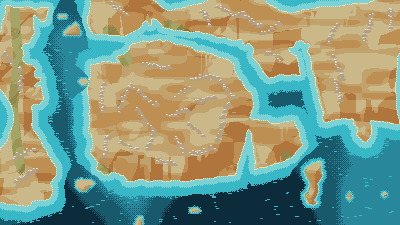
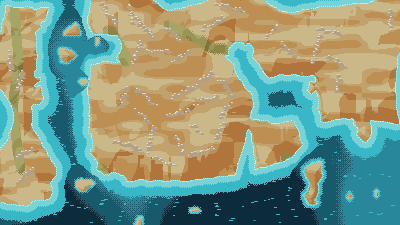
지도 — 육로가 바다를 파고 있었다 (C-12)
autoLandMap은 받은 항로마다 바다를 파는데 호출부가 육로까지 넘기고 있었다. 카이로에서
바그다드로 가는 대상로를 파니 아라비아가 섬이 됐고, 안데스 노새길이 남미 서안을 협만
그물로 썰었다. 그림 문제로 적혀 있었지만 코드 한 줄이었다.

육로를 빼자 내륙 도시가 호수 한가운데 앉았고, 그것을 고치자 검수기가 고증대로 그린
지도를 반려했다. 셋을 다 고쳐야 한 자리였다.

diff --git a/js/sprites/maps/auto.js b/js/sprites/maps/auto.js
@@ -95,8 +95,10 @@ function topology(cities, routes) {
  */
 export function autoLandMap(cities, routes, opts = {}) {
   const {
-    seed = 0xA11A5, lane = 8, bay = 9, openSea = [], landmass = [],
+    seed = 0xA11A5, lane = 8, bay = 9, openSea = [], landmass = [], inland = [],
   } = opts;
+  /* 뭍길만으로 이어진 도시 — 앞바다를 안 판다(C-12). 호출부가 요율 `null`로 골라 넘긴다. */
+  const inlandSet = new Set(inland);
 
   const { segs, dirs } = topology(cities, routes);
 
@@ -139,7 +141,13 @@ export function autoLandMap(cities, routes, opts = {}) {
           const r = bay * (0.8 + (c.size ?? 2) * 0.16) + wob * 3 + fine * 1.5;
           if (dist > r) continue;
           const dl = dirs[c.id];
-          if (!dl.length) { core = true; break; }        // 외딴 항구는 그냥 둘레를 판다
+          /* ★ **내륙 도시는 물을 안 판다**(C-12). 예전에는 항로 방향이 없으면 둘레를 통째로
+             팠는데, 육로를 회랑에서 뺀 뒤로는 **대상로 도시가 전부 그 갈래에 들어간다** —
+             포토시·쿠스코·라파스가 안데스 한복판에서 **동그란 호수**를 하나씩 이고 앉았다.
+             ⇒ `inland`에 적힌 도시는 건너뛴다. 진짜 외딴 섬 항구는 그 목록에 없으므로
+               예전처럼 둘레를 판다. */
+          if (inlandSet.has(c.id)) continue;
+          if (!dl.length) { core = true; break; }        // 외딴 섬 항구는 그냥 둘레를 판다
           if (dist < 2.5) { core = true; break; }        // 항구 바로 앞은 늘 물이다
           const ux = dx / dist, uy = dy / dist;
           // 항로 방향과 이루는 각이 100도 안쪽이면 바다 쪽이다

diff --git a/js/sprites/scene.js b/js/sprites/scene.js
@@ -73,6 +73,15 @@ function landFromSpans(spans, GW, GH, GS) {
  * @param cities   그 권역의 도시 [{id,x,y,size}] — 자동 생성 권역에만 쓰인다
  * @param routes   그 권역 **안**의 항로 [[aId,bId]]
  */
+/** 뭍길만으로 이어진 도시 — 지형 생성에서 **앞바다를 안 판다**(C-12).
+    호출부가 넘긴 `routes`는 이미 육로가 빠진 목록이므로, **거기 한 번도 안 나오는 도시**가 곧 내륙이다.
+    ★ 새 데이터를 안 만든다 — 이미 있는 것으로만 잰다. */
+const inlandOf = (cities, routes) => {
+  const seen = new Set();
+  for (const [a, b] of routes) { seen.add(a); seen.add(b); }
+  return cities.filter((c) => !seen.has(c.id)).map((c) => c.id);
+};
+
 export function mapSprite(regionId = 'mediterranean', cities = [], routes = []) {
   const def = mapDefOf(regionId);
   const clim = climateOf(regionId);
@@ -103,7 +112,7 @@ export function mapSprite(regionId = 'mediterranean', cities = [], routes = []) 
          격자의 문제가 아니라 이 한 줄이었다. 검수기는 선분 위 표본만 보므로 좁혀도 통과한다. */
       ranges = def.hand.ranges ?? [];
     } else {
-      land = autoLandMap(cities, routes, def.auto);
+      land = autoLandMap(cities, routes, { ...def.auto, inland: inlandOf(cities, routes) });
       isles = scatterIsles(land, cities, routes, { seed: seed ^ 0x15E5, count: def.auto?.isles ?? 14 });
       /* ★ 흩뿌림은 "어디에 섬이 **있어야** 하는지"를 모른다. 섬 자체가 항구인 곳(쌍서)은
          좌표로 박는다 — `landmass`에 넣으면 그쪽은 저해상 격자라 작은 섬이 스무딩에 먹혀

diff --git a/js/scenes/map.js b/js/scenes/map.js
@@ -9,7 +9,7 @@ import { shipTopSprite } from '../sprites/ship.js';
 import { blit } from '../pixel.js';
 import {
   CITIES, CITY_BY_ID, ROUTES, GOOD_BY_ID, SHIPS, OFFICER, FLAG_NAME,
-  REGION_OF_CITY, REGION_BY_ID, laneOf, riskKey,
+  REGION_OF_CITY, REGION_BY_ID, laneOf, riskKey, ROUTE_RISK,
 } from '../data.js';
 import {
   state, ship, neighborsOf, voyageDays, distanceBetween, advanceDays,
@@ -55,11 +55,17 @@ const viewRoutes = () => {
   return ROUTES.filter(([a, b]) => REGION_OF_CITY[a] === rid && REGION_OF_CITY[b] === rid);
 };
 
+/* ★ **지형을 만들 때 쓰는 항로는 다르다** — 육로는 회랑을 파면 안 된다(C-12).
+   `autoLandMap`은 받은 항로마다 바다를 파는데, 대상로(카이로~바그다드·안데스 노새길)까지
+   파면 **아라비아가 섬**이 된다. 요율이 `null`인 구간이 곧 뭍길이다.
+   ⚠ 화면에 **그리는** 항로는 위 `viewRoutes` 그대로다 — 육로도 선은 보여야 한다. */
+const terrainRoutes = () => viewRoutes().filter(([a, b]) => ROUTE_RISK[riskKey(a, b)] !== null);
+
 /** 배경을 지금 권역에 맞춰 굽는다. 권역이 그대로면 캐시를 그대로 쓴다. */
 function syncBg() {
   const rid = curRegion();
   if (bgRegion === rid && bg) return;
-  bg = mapSprite(rid, viewCities(), viewRoutes());
+  bg = mapSprite(rid, viewCities(), terrainRoutes());
   bgRegion = rid;
   // 이 바다의 도시가 걸쳐 있는 폭만 보이면 된다 — 그래야 배율이 한 단계 안 떨어진다
   const xs = viewCities().map((c) => c.x);

diff --git a/tools/check-map.py b/tools/check-map.py
@@ -106,6 +106,15 @@ if "export const ROUTE_RISK" in GEO:
 ROUTES = [(a, b) for a, b in ROUTES if frozenset((a, b)) not in INLAND]
 BY = {c["id"]: c for c in CITIES}
 
+# ★ **내륙 도시는 물이 안 닿는 것이 정상이다**(C-12). 뱃길이 하나도 없고 뭍길로만 이어진
+#   도시가 있다 — 알레포·바그다드·이스파한(대상로) · 쿠스코·포토시(안데스 노새길).
+#   지형 생성이 그 도시들의 앞바다를 안 파게 고쳤으므로(`auto.js: inland`), 검수기도
+#   같은 것을 알아야 한다. 안 그러면 **고증대로 그린 지도를 검수기가 반려한다.**
+SEA_CITY = set()
+for a, b in ROUTES:
+    SEA_CITY.add(a); SEA_CITY.add(b)
+INLAND_CITY = {c["id"] for c in CITIES if c["id"] not in SEA_CITY}
+
 W, H = 400, 225
 img_path = Path(_img_arg)
 if not img_path.is_absolute():
@@ -250,7 +259,9 @@ for c in CITIES:
                 if is_sea(xx, yy): s += 1
                 else: l += 1
     if s == 0:
-        bad_city.append((c, "물이 안 닿는다"))
+        # 뱃길이 하나도 없는 도시는 뭍에 있는 것이 맞다 — 반려하지 않는다
+        if c["id"] not in INLAND_CITY:
+            bad_city.append((c, "물이 안 닿는다"))
     elif l == 0:
         isle_city.append(c["name"])
     d = land_reach(x, y)
@@ -260,6 +271,8 @@ for c in CITIES:
 
 if isle_city:
     notes.append(f"섬 항구 {len(isle_city)}곳")
+if INLAND_CITY:
+    notes.append(f"내륙 도시 {len(INLAND_CITY)}곳(물이 안 닿아도 정상)")
 if reach:
     notes.append(f"뭍까지 평균 {sum(reach) / len(reach):.1f}px")
 if bad_city:

diff --git a/.claude/docs/UNIMPLEMENTED.md b/.claude/docs/UNIMPLEMENTED.md
@@ -555,11 +555,21 @@
 - **왜 그래야 했나**(재발 진단용): '산지' 하나로는 포토시(0.44)와 놈브레데디오스(0.74)가 같은 딱지를
   달아 30% 값 차이가 안 보였다. **순위는 플레이어가 실제로 알고 싶은 것을 그대로 답한다.**
 
-### C-12. 지도 두 곳이 아직 어색하다 — `그림`
-- **중동**: 카이로~다마스쿠스~바그다드~바스라 줄이 통째로 물길이라 **아라비아가 섬**이 됐다.
-  그 도시들을 잇는 것은 육로인데 항로 회랑이 바다를 판다(`auto.js`가 육로를 안 가린다).
-- **남아메리카**: 바다 53.4%인데 서·남안이 폭 2~4px 협만 그물이라 "대륙 하나 + 두 대양"으로
-  안 읽힌다. 카리브는 섬·유카탄·플로리다가 또렷해 대비가 크다.
+### C-12. 지도 두 곳이 아직 어색하다 — ✅ **해소**(2026-08-27) · **그림이 아니라 코드였다**
+- **원인 한 줄** — `autoLandMap`은 받은 항로마다 바다를 파는데 **호출부가 육로까지 넘기고 있었다.**
+  카이로~다마스쿠스~바그다드~바스라(대상로)를 파니 **아라비아가 섬**이 됐고, 남아메리카는
+  안데스 노새길(카야오~우앙카벨리카~쿠스코~포토시)이 서·남안을 협만 그물로 썰었다.
+  ⇒ **요율이 `null`인 구간을 지형 생성에서 뺀다**(`scenes/map.js: terrainRoutes` · `gen-map-png.mjs`).
+  ⚠ **화면에 그리는 항로는 그대로다** — 육로도 선은 보여야 한다.
+- **그러자 내륙 도시가 호수 한가운데 앉았다** — 항로 방향이 없는 도시는 둘레를 통째로 파는
+  규칙이라 포토시·쿠스코·라파스가 안데스에서 동그란 호수를 이고 앉았다.
+  ⇒ `autoLandMap(…, { inland })` — **뱃길이 하나도 없는 도시는 앞바다를 안 판다.**
+  진짜 외딴 섬 항구는 그 목록에 없으므로 예전처럼 둘레를 판다.
+- **그러자 검수기가 반려했다**(알레포·바그다드·이스파한 「물이 안 닿는다」) — **검수기가 고증대로
+  그린 지도를 반려한 것**이다. `check-map.py`도 같은 것을 알게 했다(`INLAND_CITY` —
+  뱃길이 하나도 없는 도시는 물이 안 닿아도 정상).
+- **아홉 장을 다시 뽑고 검수 9/9 통과.** ★ 눈으로 확인했다 — 중동은 아라비아가 반도로 붙었고,
+  남아메리카는 「대륙 하나 + 두 대양」으로 읽힌다.
 
 ### C-8. 급여일에 선택이 없다 — ✅ **해소**(2026-08-26)
 *"안 주는 것도 선택이지 회피가 아니다"*라고 화면 주석이 적어 두었는데 **안 주는 단추가 없었다.**
